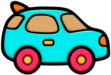
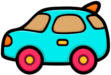
Colocacion de enemigos y obstaculos
Los enemigos y obstaculos ya se generan en su lugar correspondiente. Cambios en los sprites

diff --git a/src/scenes/Tierra.js b/src/scenes/Tierra.js
@@ -49,9 +49,10 @@ export default class Tierra extends Phaser.Scene
 		this.timerE = 0;
 		this.timerP = 0;
 		this.timerC = 0;	
+		this.playTime=0;
 		this.transition = new Transition(this);
 		this.id='road';
-		this.limitE=Phaser.Math.Between(1,10)*100;
+		this.limitE=100;
 		this.limitP=Phaser.Math.Between(1,10)*100;
 		this.limitC=Phaser.Math.Between(1,10)*100;
 	}
@@ -104,13 +105,13 @@ export default class Tierra extends Phaser.Scene
 	enemyRandom()
 	{
 		this.id=this.parallax.checkId();
-		let x = Phaser.Math.Between(1,6);
+		let x = Phaser.Math.Between(1,4);
 		if(this.id=='road')
 		{
-			if (x == 1) {this.enemy= new Enemies(this,1200,300,'car', 0);}
-			else if (x == 2) {this.enemy= new Enemies(this,1200,300,'plane', 1);}
-			else if (x == 3) {this.enemy= new Enemies(this,1200,300,'eagle', 2);}	
-			else if (x == 4) {this.enemy= new Enemies(this,1200,300,'balloon', 2);}	
+			if (x == 1) {this.enemy= new Enemies(this,1200,(Phaser.Math.Between(0,1)*40)+440,'car', 0);}
+			else if (x == 2) {this.enemy= new Enemies(this,1200,100,'plane', 2);}
+			else if (x == 3) {this.enemy= new Enemies(this,1200,100,'eagle', 3);}	
+			else if (x == 4) {this.enemy= new Enemies(this,1200,200,'balloon', 0);}	
 			else this.enemyRandom();
 		}
 		else if(this.id=='space')
@@ -121,9 +122,9 @@ export default class Tierra extends Phaser.Scene
 		}
 		else if(this.id=='sea')
 		{
-			if (x == 1) {this.enemy= new Enemies(this,1200,300,'boat', 0);}
-			else if (x == 2) {this.enemy= new Enemies(this,1200,300,'plane', 1);}
-			else if (x == 3) {this.enemy= new Enemies(this,1200,300,'island', 2);}	
+			if (x == 1) {this.enemy= new Enemies(this,1200,Phaser.Math.Between(42,52)*10,'boat', 0);}
+			if (x == 2) {this.enemy= new Enemies(this,1200, Phaser.Math.Between(20,45)*10,'plane', Phaser.Math.Between(1,2));}
+			else if (x == 3) {this.enemy= new Enemies(this,1200,440,'island', 0);}	
 			else this.enemyRandom();
 		}
 	}
@@ -135,12 +136,13 @@ export default class Tierra extends Phaser.Scene
 		this.timerE=this.timerE+1;
 		this.timerP=this.timerP+1;
 		this.timerC=this.timerC+1;
-
+		this.playTime+=1;
 		if(this.timerE>=this.limitE)
 		{
 			this.enemyRandom();
 			this.timerE=0;
-			this.limitE=Phaser.Math.Between(1,10)*100;
+			this.limitE=Phaser.Math.Between(1,10)*100-(this.playTime/200);
+			console.log(this.limitE);
 		}
 		if(this.timerP>=this.limitP) 
 		{

diff --git a/src/entities/Enemies.js b/src/entities/Enemies.js
@@ -26,13 +26,17 @@ export default class Enemies extends Phaser.GameObjects.Sprite{
 			if (this.y <= 0){
 				this.speedY *= -1;
 			}
-			else if (this.y >= 600){
+			else if (this.y >= 500){
 				this.speedY *= -1;
 			}
 		}
 		else if (this.move == 2) { // Movimiento acelarado hacia la izquierda
 			this.speedX -= 1;
 			this.speedY = 0;
+		}
+		else if (this.move == 3) { // Movimiento en picado 
+			this.speedX -= 1;
+			this.speedY += 0.5;
 		}
 		this.body.setVelocity(this.speedX, this.speedY);
 
